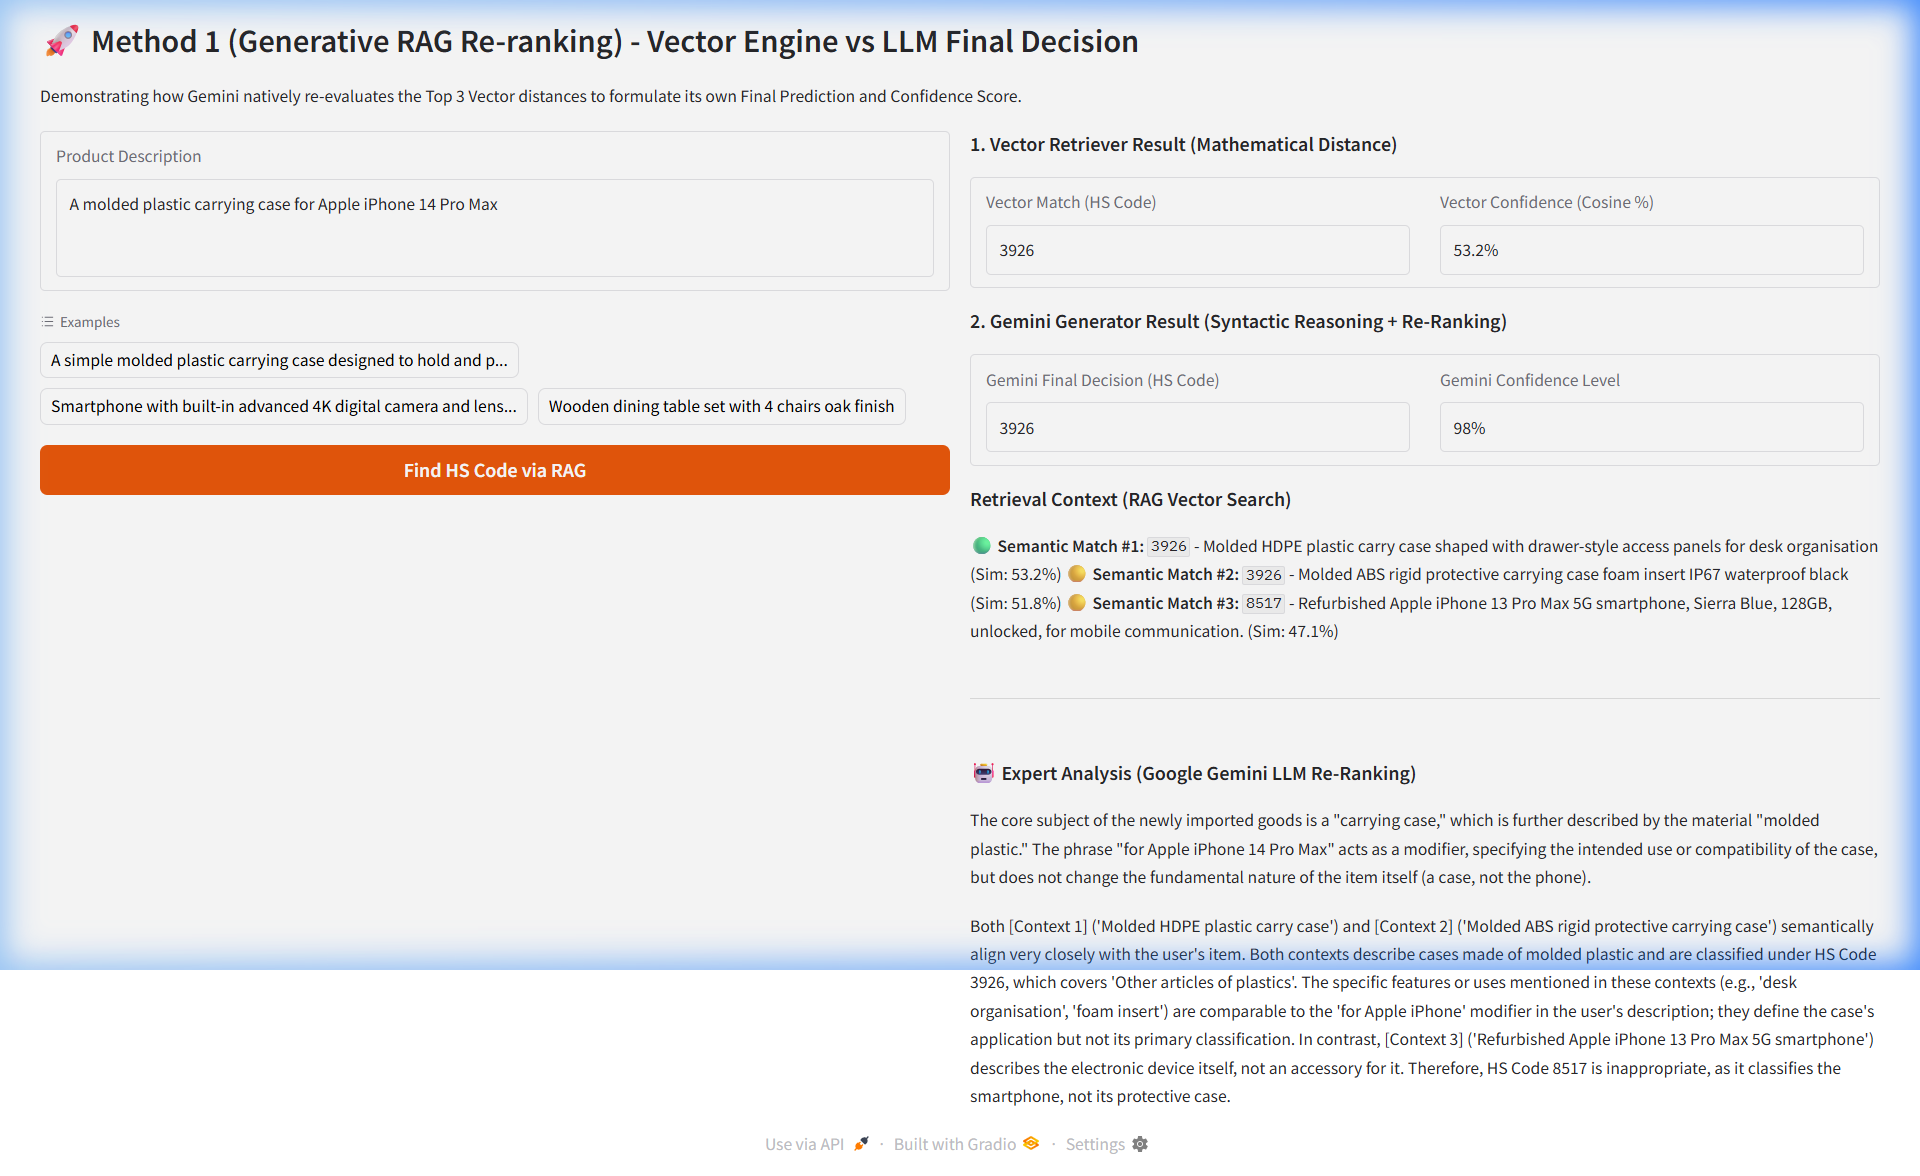
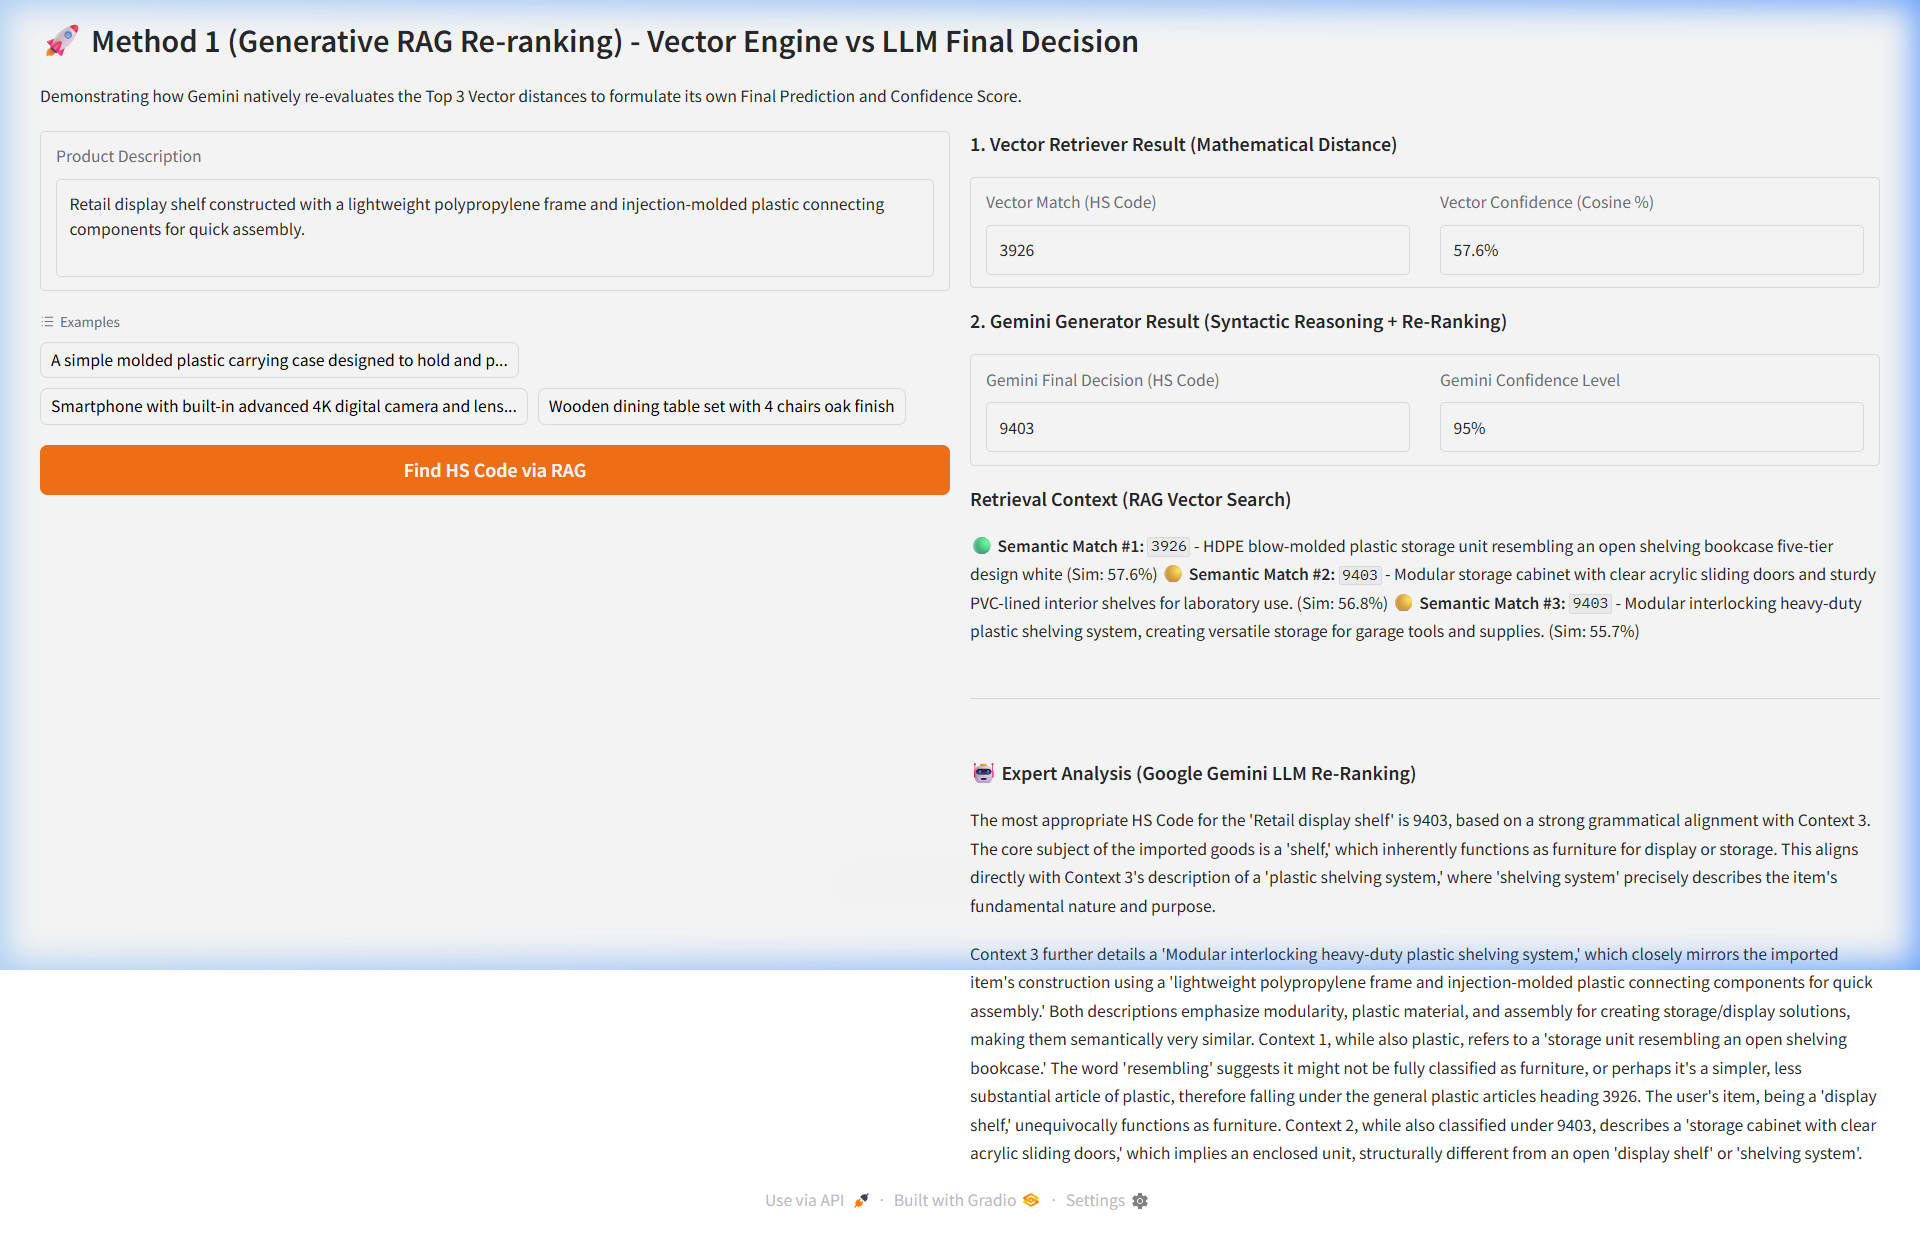
Docs: Final Technical Report update with 'Retail Shelf' adversarial example and new screenshots

diff --git a/documentation/technical_report.md b/documentation/technical_report.md
@@ -32,7 +32,9 @@ The core philosophy of my approach is to separate **Statistical Relevance** from
 For HS Code classification, new products emerge daily (e.g., new electronics models). **RAG (Retrieval-Augmented Generation)** allows the system to update its "knowledge base" simply by adding new CSV rows to the vector store, without requiring expensive retraining or fine-tuning of the model.
 
 ### 3.2 Grammatical Reasoning vs. Keyword Weights
-Traditional ML often fails on "Adversarial Modifiers." For example, "A plastic case for iPhone" contains "iPhone" (strong keyword for 8517) and "plastic case" (3926). We chose an LLM re-ranker specifically because LLMs understand **Syntactic Dependency**—knowing that "plastic case" is the head noun and "iPhone" is just a specifier.
+Traditional ML often fails on "Adversarial Modifiers." For example, consider the description: *"Retail display shelf constructed with a lightweight polypropylene frame and injection-molded plastic connecting components"*. 
+
+A keyword-based model (Method 2) is heavily skewed by high-weight terms like **"polypropylene"**, **"injection-molded"**, and **"plastic"**, leading it to incorrectly predict **HS 3926** (Articles of plastics). In contrast, I chose an LLM re-ranker specifically because LLMs understand **Syntactic Dependency**—identifying that the core subject is a **"shelf"** (HS 9403) and the plastic elements are merely subordinate material descriptions.
 
 ---
 
@@ -62,14 +64,14 @@ The dataset (252 samples) was split 80/20. The test set was intentionally weight
 | **Edge Case Results**| 50.0% | 62.5% | **100.0%** |
 
 ### 5.2 Visual Comparison
-Below is a comparison of the same query: *"A molded plastic carrying case for Apple iPhone 14 Pro Max"*.
+Below is a comparison of the same query: *"Retail display shelf constructed with a lightweight polypropylene frame and injection-molded plastic connecting components"*.
 
 #### Method 2: Baseline ML
-The ML model predicts correctly but with low confidence (**58%**) and a high ambiguity warning.
+The ML model is misled by the material keywords and predicts **3926** (Plastics) with a low confidence (**57%**), triggering an ambiguity warning.
 ![Baseline ML](assets/baseline_ml.png)
 
 #### Method 1: Generative RAG
-The Gemini re-ranked system understands that the "iPhone" is just a modifier and boosts confidence to **98%** with a clear expert explanation.
+The Gemini re-ranked system correctly identifies the **subject noun** as a "shelf" (furniture) even though the retrieved vector match was originally 3926. It corrects the final output to **9403** with **95%** confidence and a clear expert explanation.
 ![Generative RAG](assets/rag_llm.png)
 
 ---
